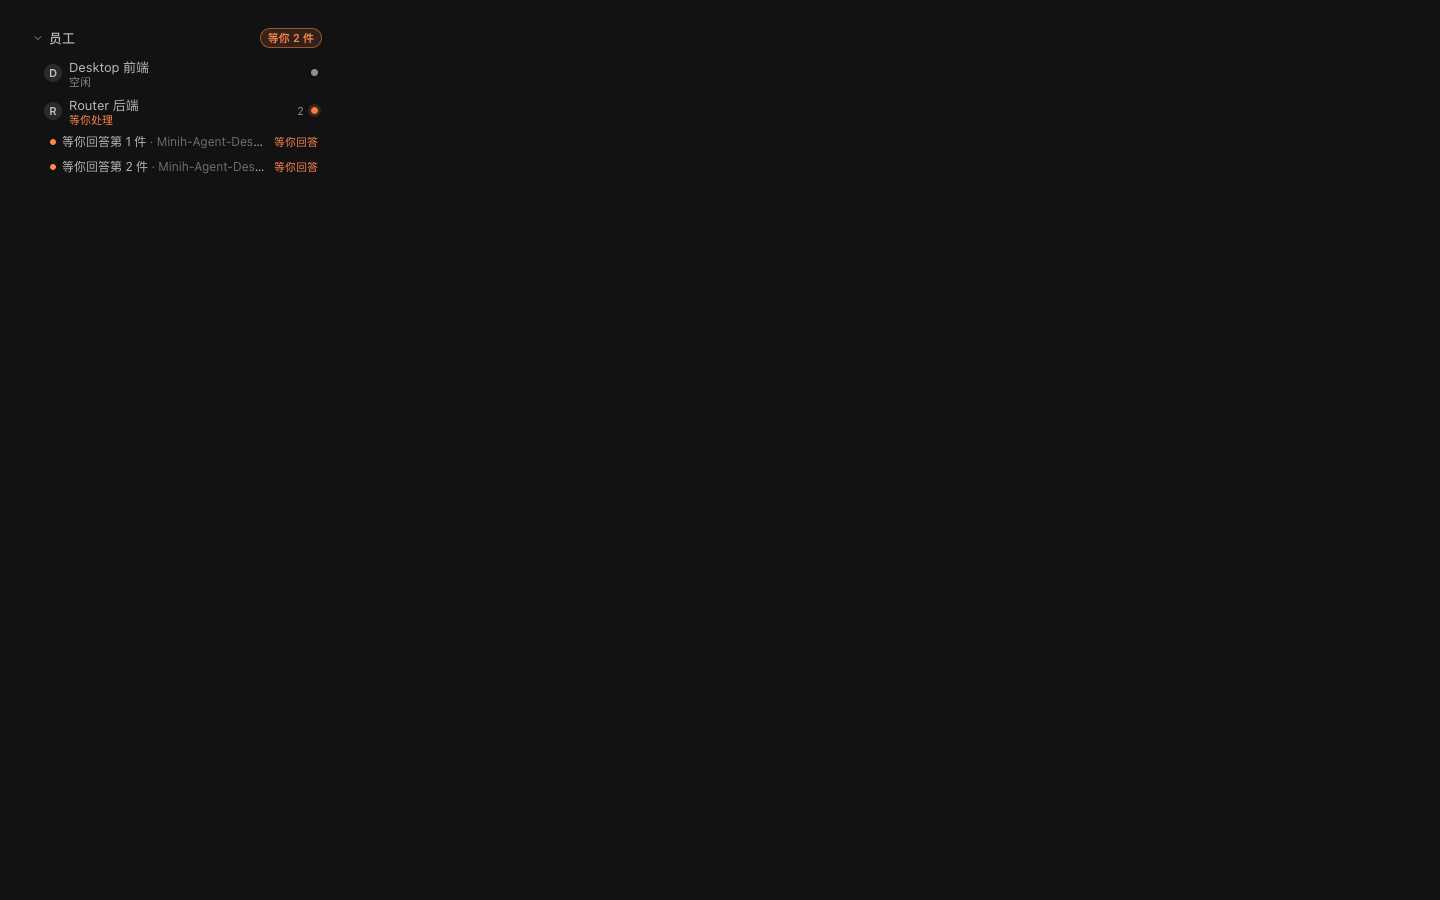
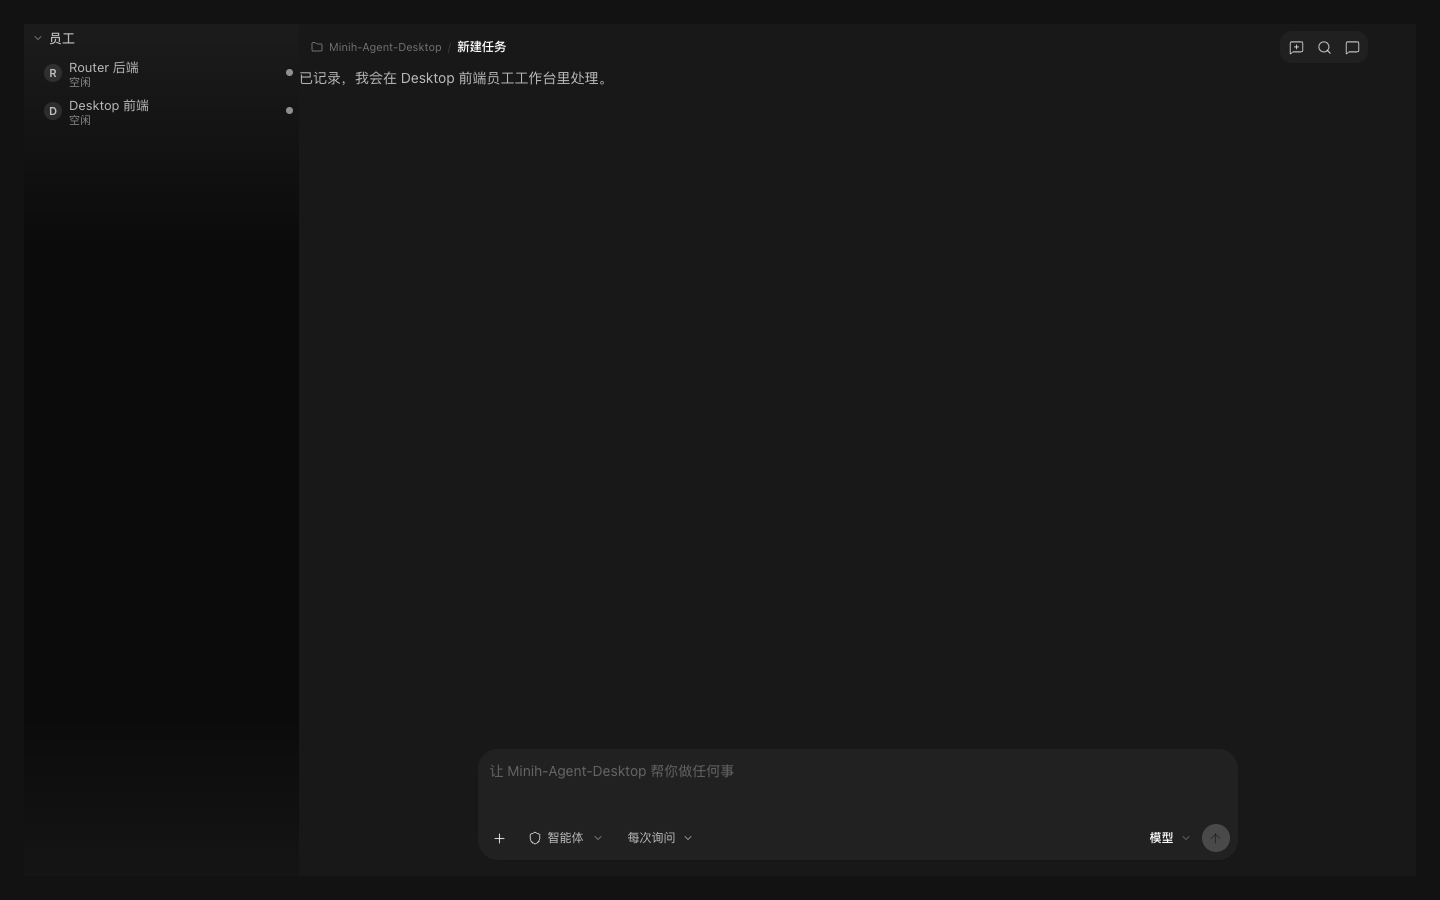
test(bot): 更新移除管家后的用户路径
同步无管家 fixture、完整 Electron 外壳截图与任务中断通知断言，确保 1.7.0 员工模式的用户路径和历史任务兼容性都有可验证证据。

diff --git a/crates/host-core/tests/host_cli.rs b/crates/host-core/tests/host_cli.rs
@@ -520,22 +520,23 @@ fn an_interrupted_task_is_visible_and_restarts_when_the_host_restarts() {
         "session.collaboration.pendingDispatch",
         serde_json::json!({}),
     );
-    let notices: Vec<&serde_json::Value> = pending["result"]["messages"]
+    let pending_messages = pending["result"]["messages"]
         .as_array()
-        .expect("pendingDispatch returns messages")
-        .iter()
-        .filter(|message| message["kind"] == serde_json::json!("stage"))
-        .collect();
-    assert_eq!(notices.len(), 1, "the steward was not told: {pending}");
-    assert_eq!(
-        notices[0]["targetSessionId"],
-        serde_json::json!("steward-1")
+        .expect("pendingDispatch returns messages");
+    assert!(
+        pending_messages.iter().all(|message| message["kind"] != serde_json::json!("stage")),
+        "interruption is no longer a ledger stage message: {pending}"
     );
-    let payload: serde_json::Value =
-        serde_json::from_str(notices[0]["content"].as_str().expect("content")).expect("json");
-    assert_eq!(payload["taskId"], serde_json::json!("task-1"));
-    assert_eq!(payload["stage"], serde_json::json!("interrupted"));
-    assert_eq!(payload["employee"], serde_json::json!("Router 后端"));
+    assert_eq!(
+        count_rows(
+            &data_dir,
+            "SELECT COUNT(*) FROM notifications
+              WHERE kind='task.failed' AND error_code='TASK_INTERRUPTED' AND session_id=?1",
+            "task-session-1",
+        ),
+        1,
+        "the task interruption notification is missing"
+    );
 
     // The person clicks "重新开工": one new delivery from the same mandate.
     let restarted = host.call("task.restart", serde_json::json!({ "taskId": "task-1" }));
@@ -573,23 +574,22 @@ fn an_interrupted_task_is_visible_and_restarts_when_the_host_restarts() {
     assert_eq!(
         count_rows(
             &data_dir,
-            "SELECT COUNT(*) FROM session_collaboration_messages
-              WHERE kind = 'stage'
-                AND content LIKE '%\"deliveryId\":\"' || ?1 || '\"%'",
-            "delivery-1"
+            "SELECT COUNT(*) FROM notifications
+              WHERE kind='task.failed' AND error_code='TASK_INTERRUPTED' AND session_id=?1",
+            "task-session-1",
         ),
-        1,
-        "the steward heard the same interruption twice"
+        2,
+        "one notification per interruption, and there were two"
     );
     assert_eq!(
         count_rows(
             &data_dir,
             "SELECT COUNT(*) FROM session_collaboration_messages
-              WHERE kind = 'stage' AND content LIKE '%\"taskId\":\"' || ?1 || '\"%'",
-            "task-1"
+              WHERE kind='stage' AND content LIKE '%\"taskId\":\"' || ?1 || '\"%'",
+            "task-1",
         ),
-        2,
-        "one notice per interruption, and there were two"
+        0,
+        "the task still has legacy stage interruption messages"
     );
 }
 
@@ -651,27 +651,21 @@ fn a_task_restarting_claims_nothing_and_announces_one_interruption() {
         assert_eq!(task["waiting"], serde_json::json!([]), "{row}");
         // The person can still act on it: a blocked card, not a dead row.
         assert_eq!(task["archivedAt"], serde_json::Value::Null, "{row}");
-        let notices = count_rows(
+        let session_id = if task_id == "task-1" { "task-session-1" } else { "direct-session" };
+        let notifications = count_rows(
+            &data_dir,
+            "SELECT COUNT(*) FROM notifications
+              WHERE kind='task.failed' AND error_code='TASK_INTERRUPTED' AND session_id=?1",
+            session_id,
+        );
+        assert_eq!(notifications, expected_notices, "{task_id} notification count");
+        let stage_messages = count_rows(
             &data_dir,
             "SELECT COUNT(*) FROM session_collaboration_messages
               WHERE kind='stage' AND content LIKE '%\"taskId\":\"' || ?1 || '\"%'",
             task_id,
         );
-        assert_eq!(
-            notices, expected_notices,
-            "{task_id} announced the interruption {notices} time(s)"
-        );
+        assert_eq!(stage_messages, 0, "{task_id} still has a legacy stage message");
     }
-    // The steward's task is announced once, about the interruption, and never a
-    // second time when the stage recovery moves it.
-    let stage: Option<String> = open_db(&data_dir)
-        .query_row(
-            "SELECT json_extract(content, '$.stage') FROM session_collaboration_messages
-              WHERE kind='stage' AND content LIKE '%\"taskId\":\"task-1\"%'",
-            [],
-            |row| row.get(0),
-        )
-        .expect("read the one interruption notice");
-    assert_eq!(stage.as_deref(), Some("interrupted"));
     second.shutdown();
 }
